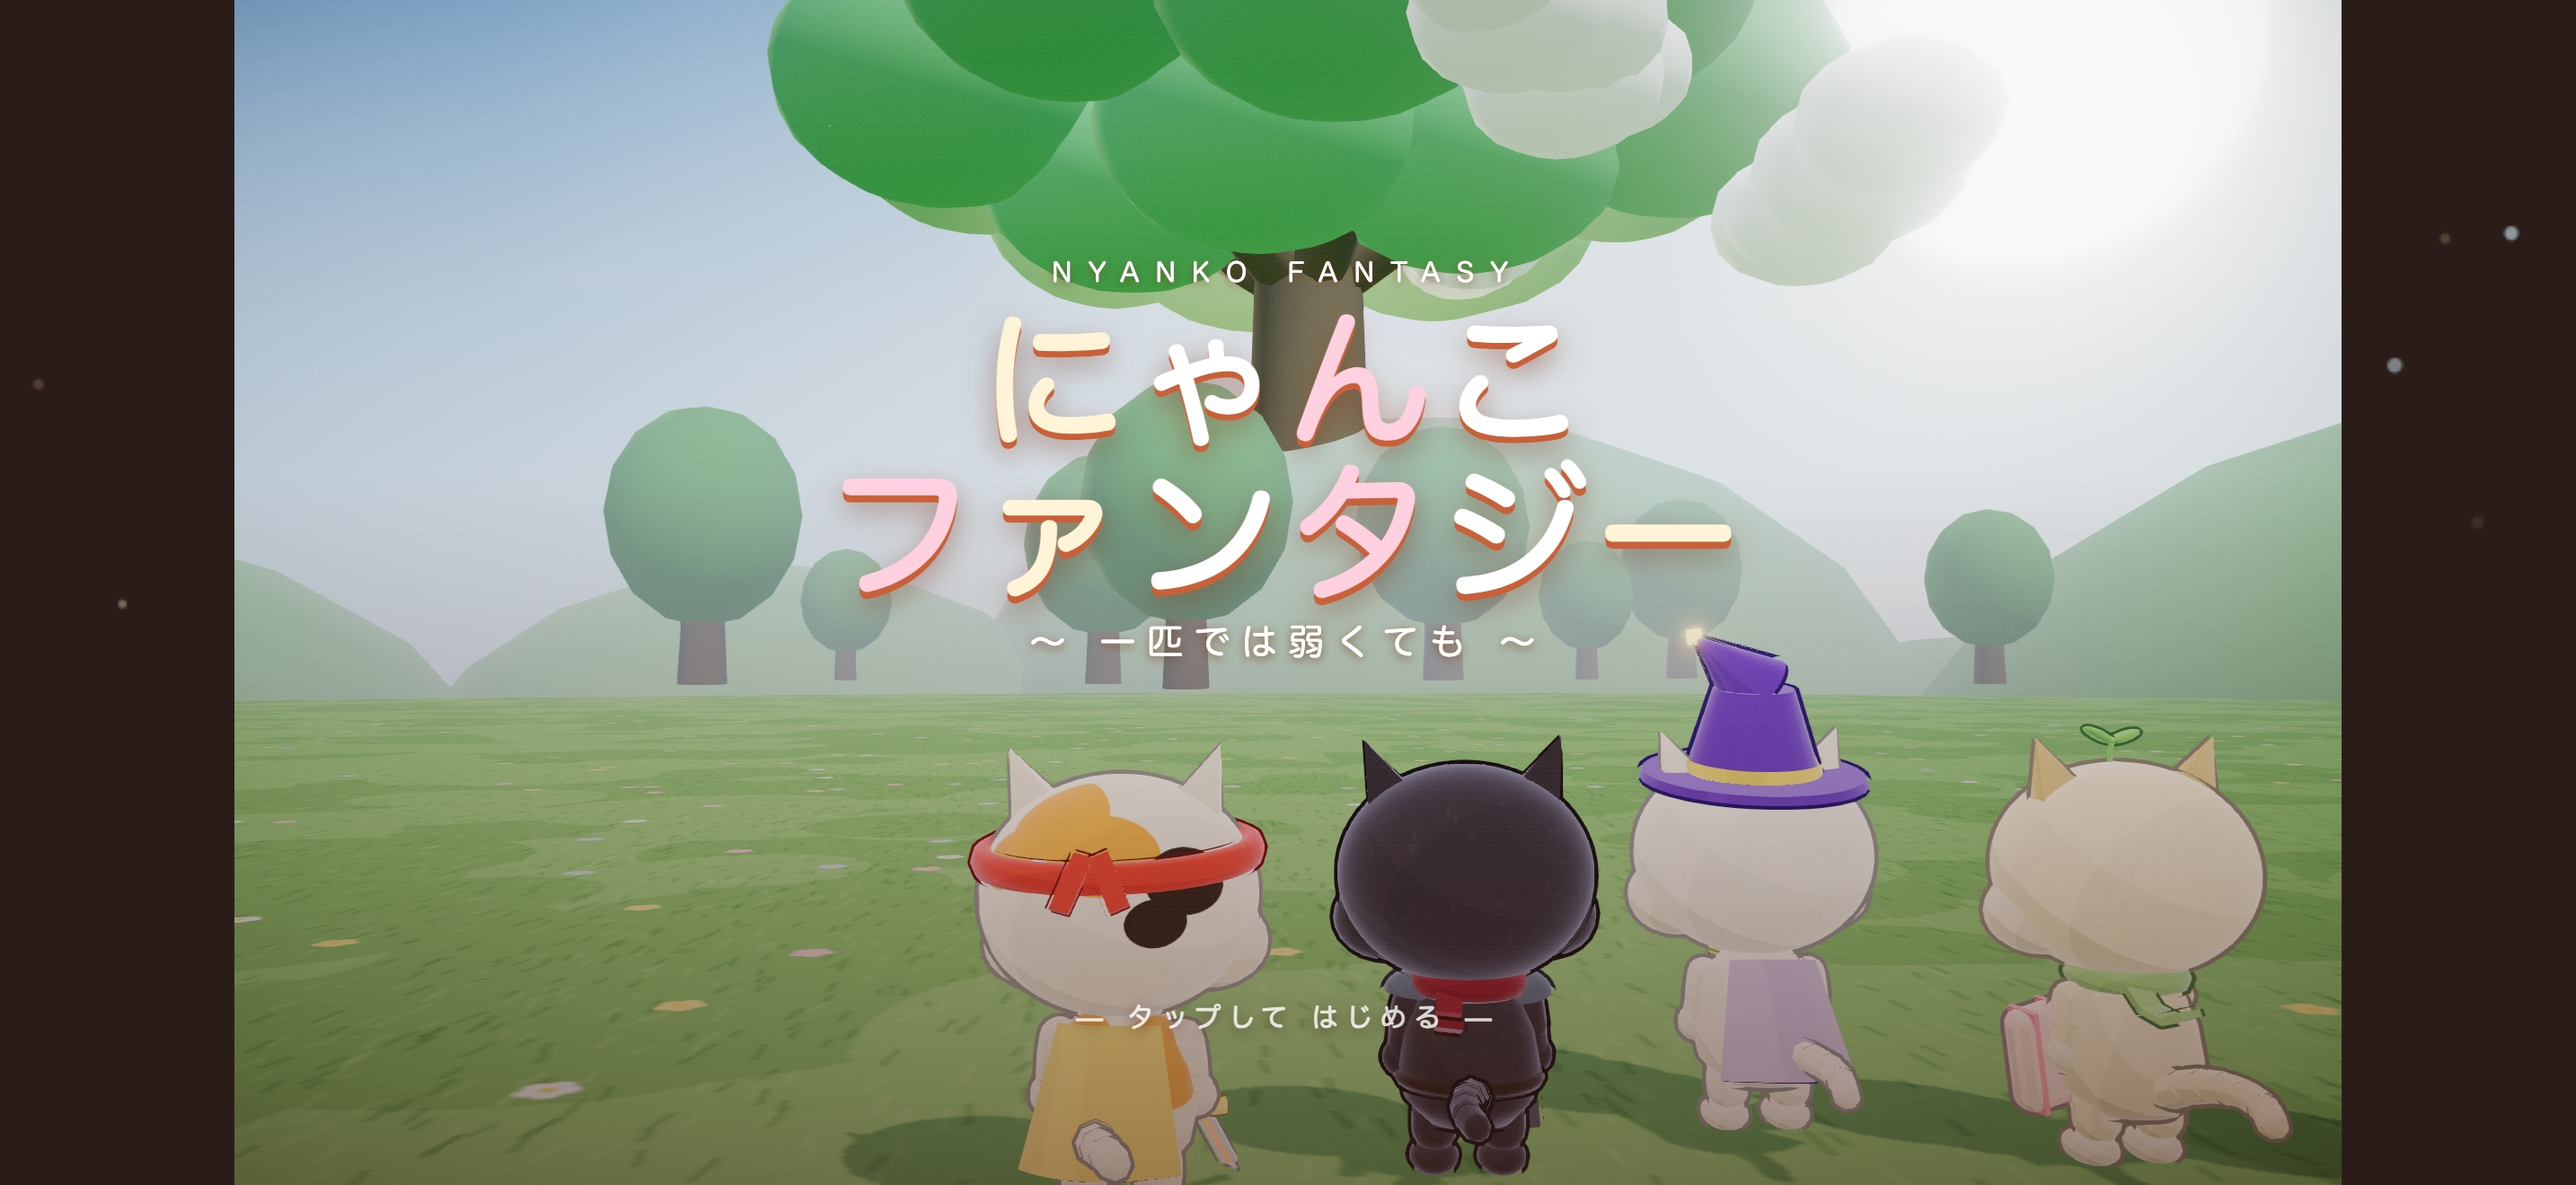
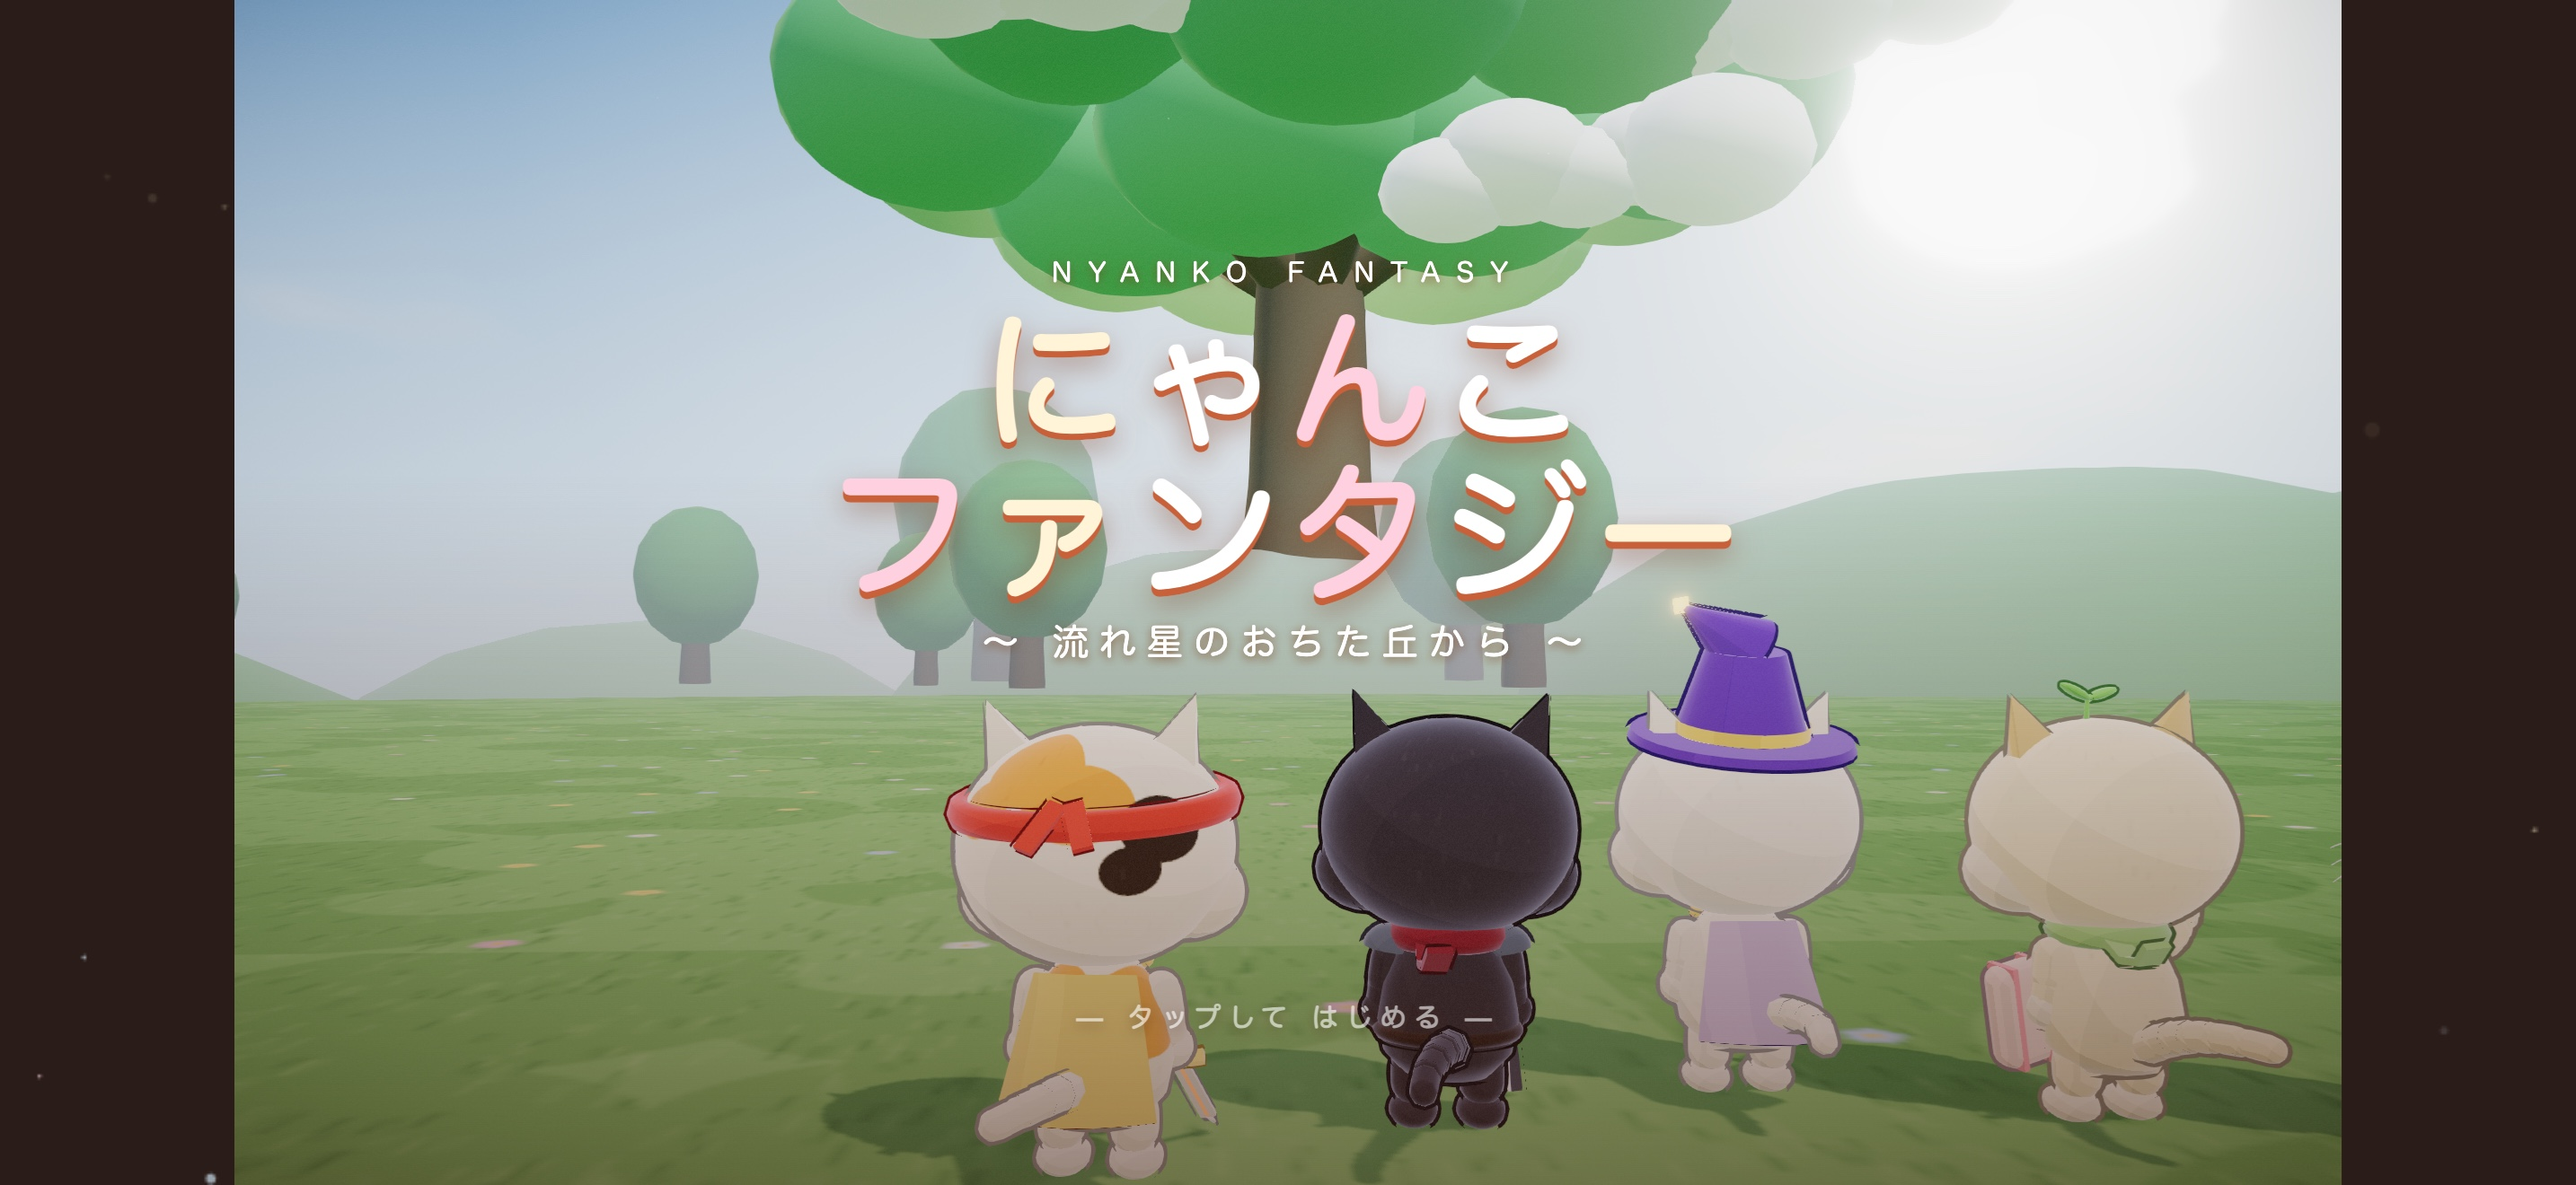
feat: サブタイトルを「流れ星のおちた丘から」に変える
- タイトル画面・README・プライバシーポリシー・App Store のサブタイトルを「〜 流れ星のおちた丘から 〜」にする
- サブタイトルが写るタイトルのスクリーンショット（6.9／6.5／6.3 インチ）とヘッダ画像を撮りなおす
- タイトル画面はカメラが時間で左右に動いてマオウが写りこむので、カメラを t＝0 の位置に止めて撮る手順を AppStore.md に書く

diff --git a/privacy.html b/privacy.html
@@ -21,7 +21,7 @@
   <h1>にゃんこファンタジー　プライバシーポリシー</h1>
   <p class="date">2026年10月20日</p>
 
-  <p>「にゃんこファンタジー　〜一匹では弱くても〜」（以下「本アプリ」）は、遊ぶ人の個人情報を集めません。</p>
+  <p>「にゃんこファンタジー　〜流れ星のおちた丘から〜」（以下「本アプリ」）は、遊ぶ人の個人情報を集めません。</p>
 
   <h2>集める情報</h2>
   <p>本アプリは、名前・メールアドレス・位置情報・端末の識別子・遊んだ記録などを、開発者や第三者へ送ることはありません。本アプリはインターネットにつながらず、アカウントの登録もありません。</p>

diff --git a/js/screens.js b/js/screens.js
@@ -45,7 +45,7 @@ function TitleScreen() {
     <div class="t-logo">
       <div class="t-en">NYANKO FANTASY</div>
       <h1><span>に</span><span>ゃ</span><span>ん</span><span>こ</span><br><span>フ</span><span>ァ</span><span>ン</span><span>タ</span><span>ジ</span><span>ー</span></h1>
-      <div class="t-name">〜 一匹では弱くても 〜</div>
+      <div class="t-name">〜 流れ星のおちた丘から 〜</div>
     </div>
     <div class="t-start">— <span class="pc-only">クリック</span><span class="touch-only">タップ</span>して はじめる —</div>
   </div>`);

diff --git a/README.md b/README.md
@@ -1,4 +1,4 @@
-# にゃんこファンタジー　〜一匹では弱くても〜
+# にゃんこファンタジー　〜流れ星のおちた丘から〜
 
 2頭身のにゃんこたちが旅をする、ブラウザで遊べる3DコマンドRPG。
 企画書は `spec/nyanko_fantasy_plot.md`。探索フィールド・ターン制バトル・会話シーンの仕組みは、前作（`../rpg`「銀河鉄路 ノクターン」）のものを流用しています。
